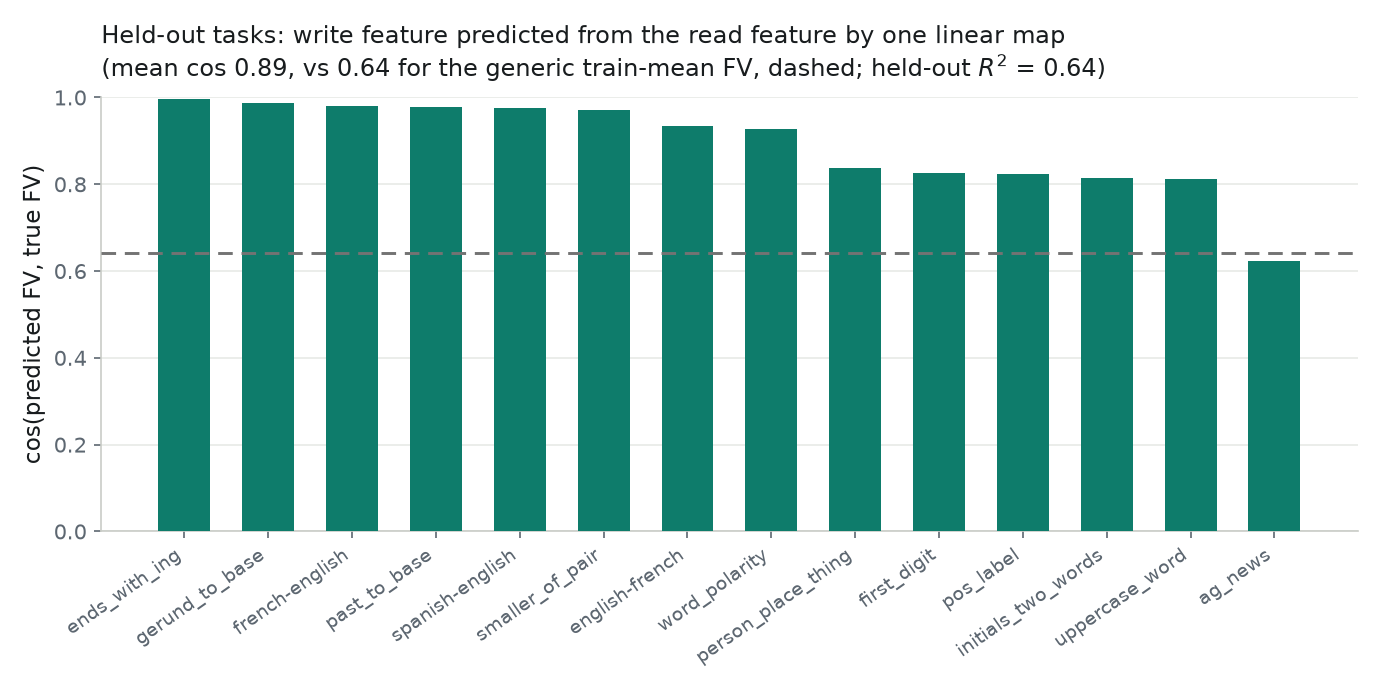
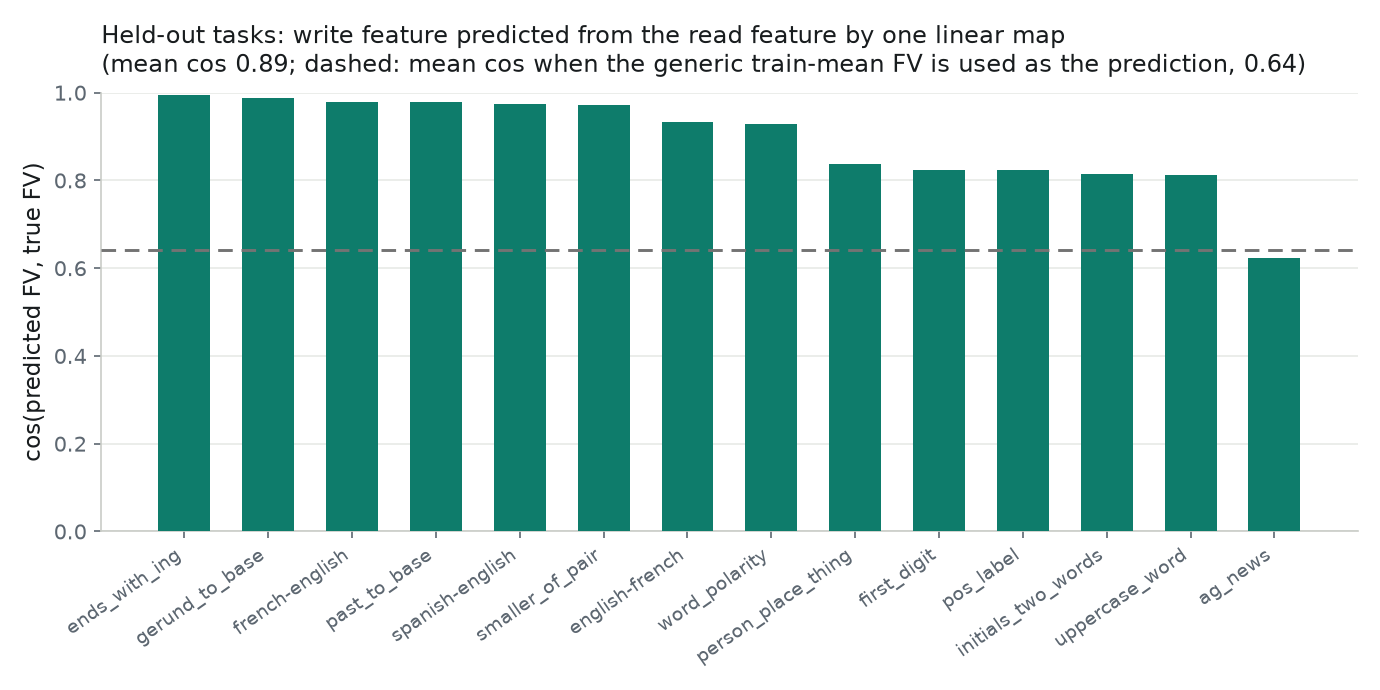
Claim 6 figure: title carries cosine only (dashed baseline is a cosine, not R2)

diff --git a/src/eval_scripts/claim6_meanresid_map.py b/src/eval_scripts/claim6_meanresid_map.py
@@ -275,7 +275,7 @@ def main():
     ax.set_ylabel("cos(predicted FV, true FV)", fontsize=11, color=INK)
     ax.set_ylim(0, 1.0)
     ax.set_title(f"Held-out tasks: write feature predicted from the read feature by one linear map\n"
-                 f"(mean cos {cos_map.mean():.2f}, vs {cos_gen.mean():.2f} for the generic train-mean FV, dashed; held-out $R^2$ = {full_ridge_val:.2f})",
+                 f"(mean cos {cos_map.mean():.2f}; dashed: mean cos when the generic train-mean FV is used as the prediction, {cos_gen.mean():.2f})",
                  loc="left", fontsize=11.5, color=INK, pad=10)
     fig.tight_layout(); fig.savefig(OUT / "linear_map_simple.png", facecolor="white"); plt.close(fig)
     print(f"linear map per held-out task: mean cos {cos_map.mean():.3f} (min {cos_map.min():.3f}) vs generic FV {cos_gen.mean():.3f}")
